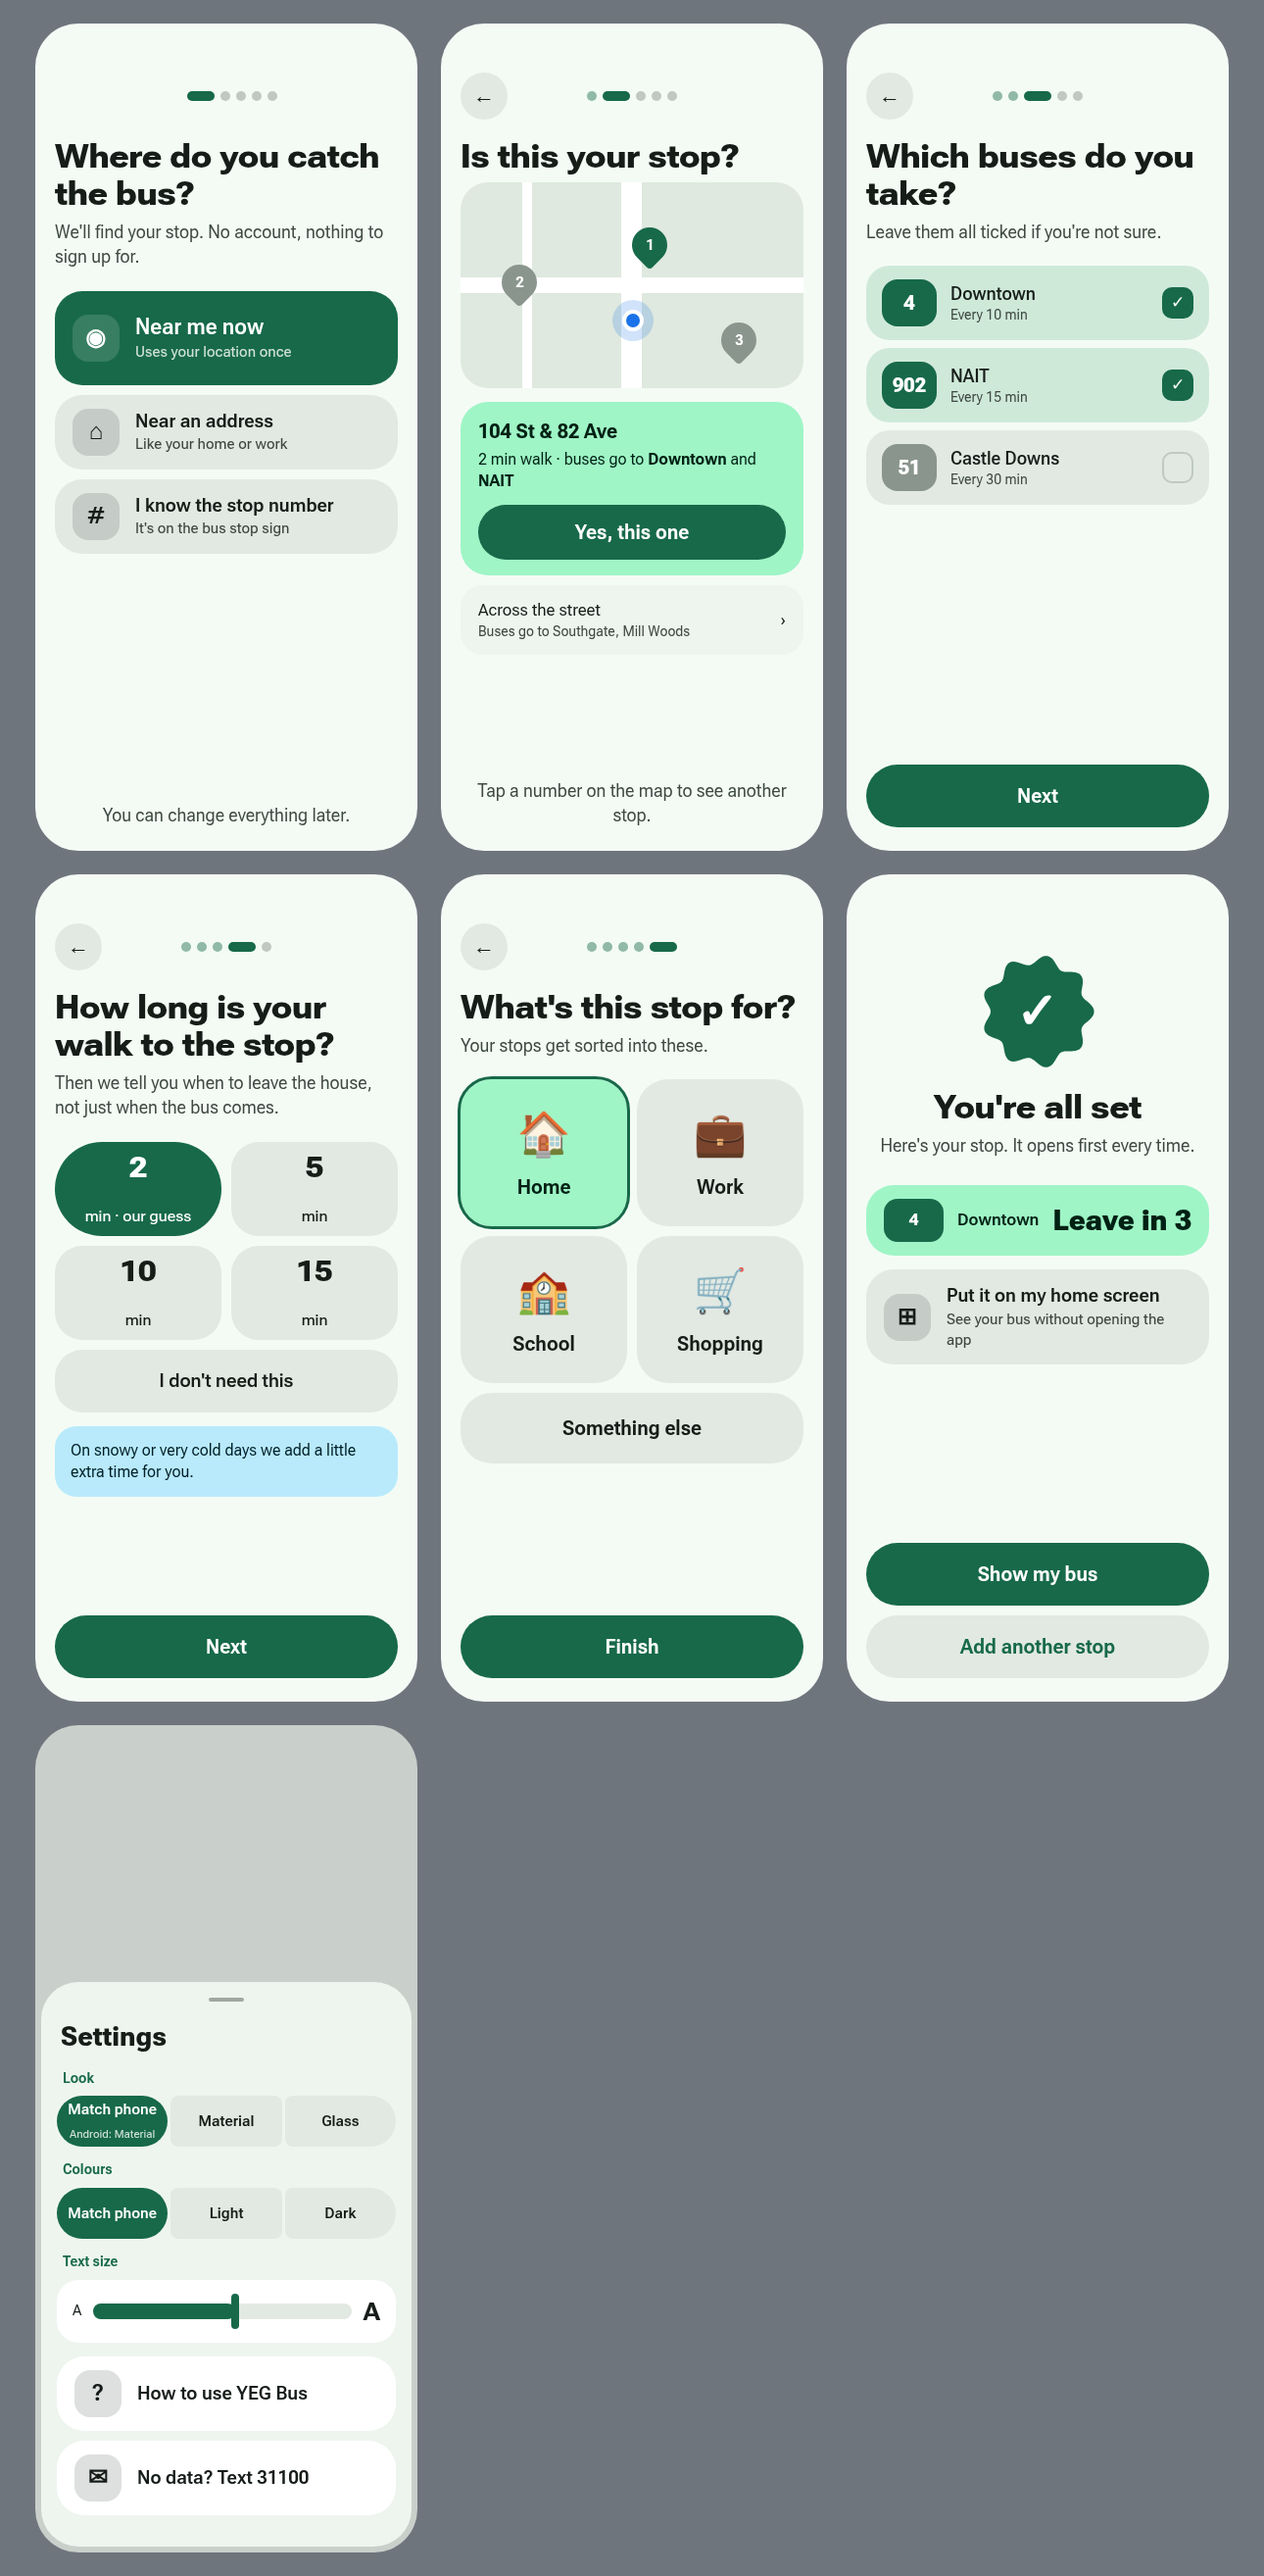
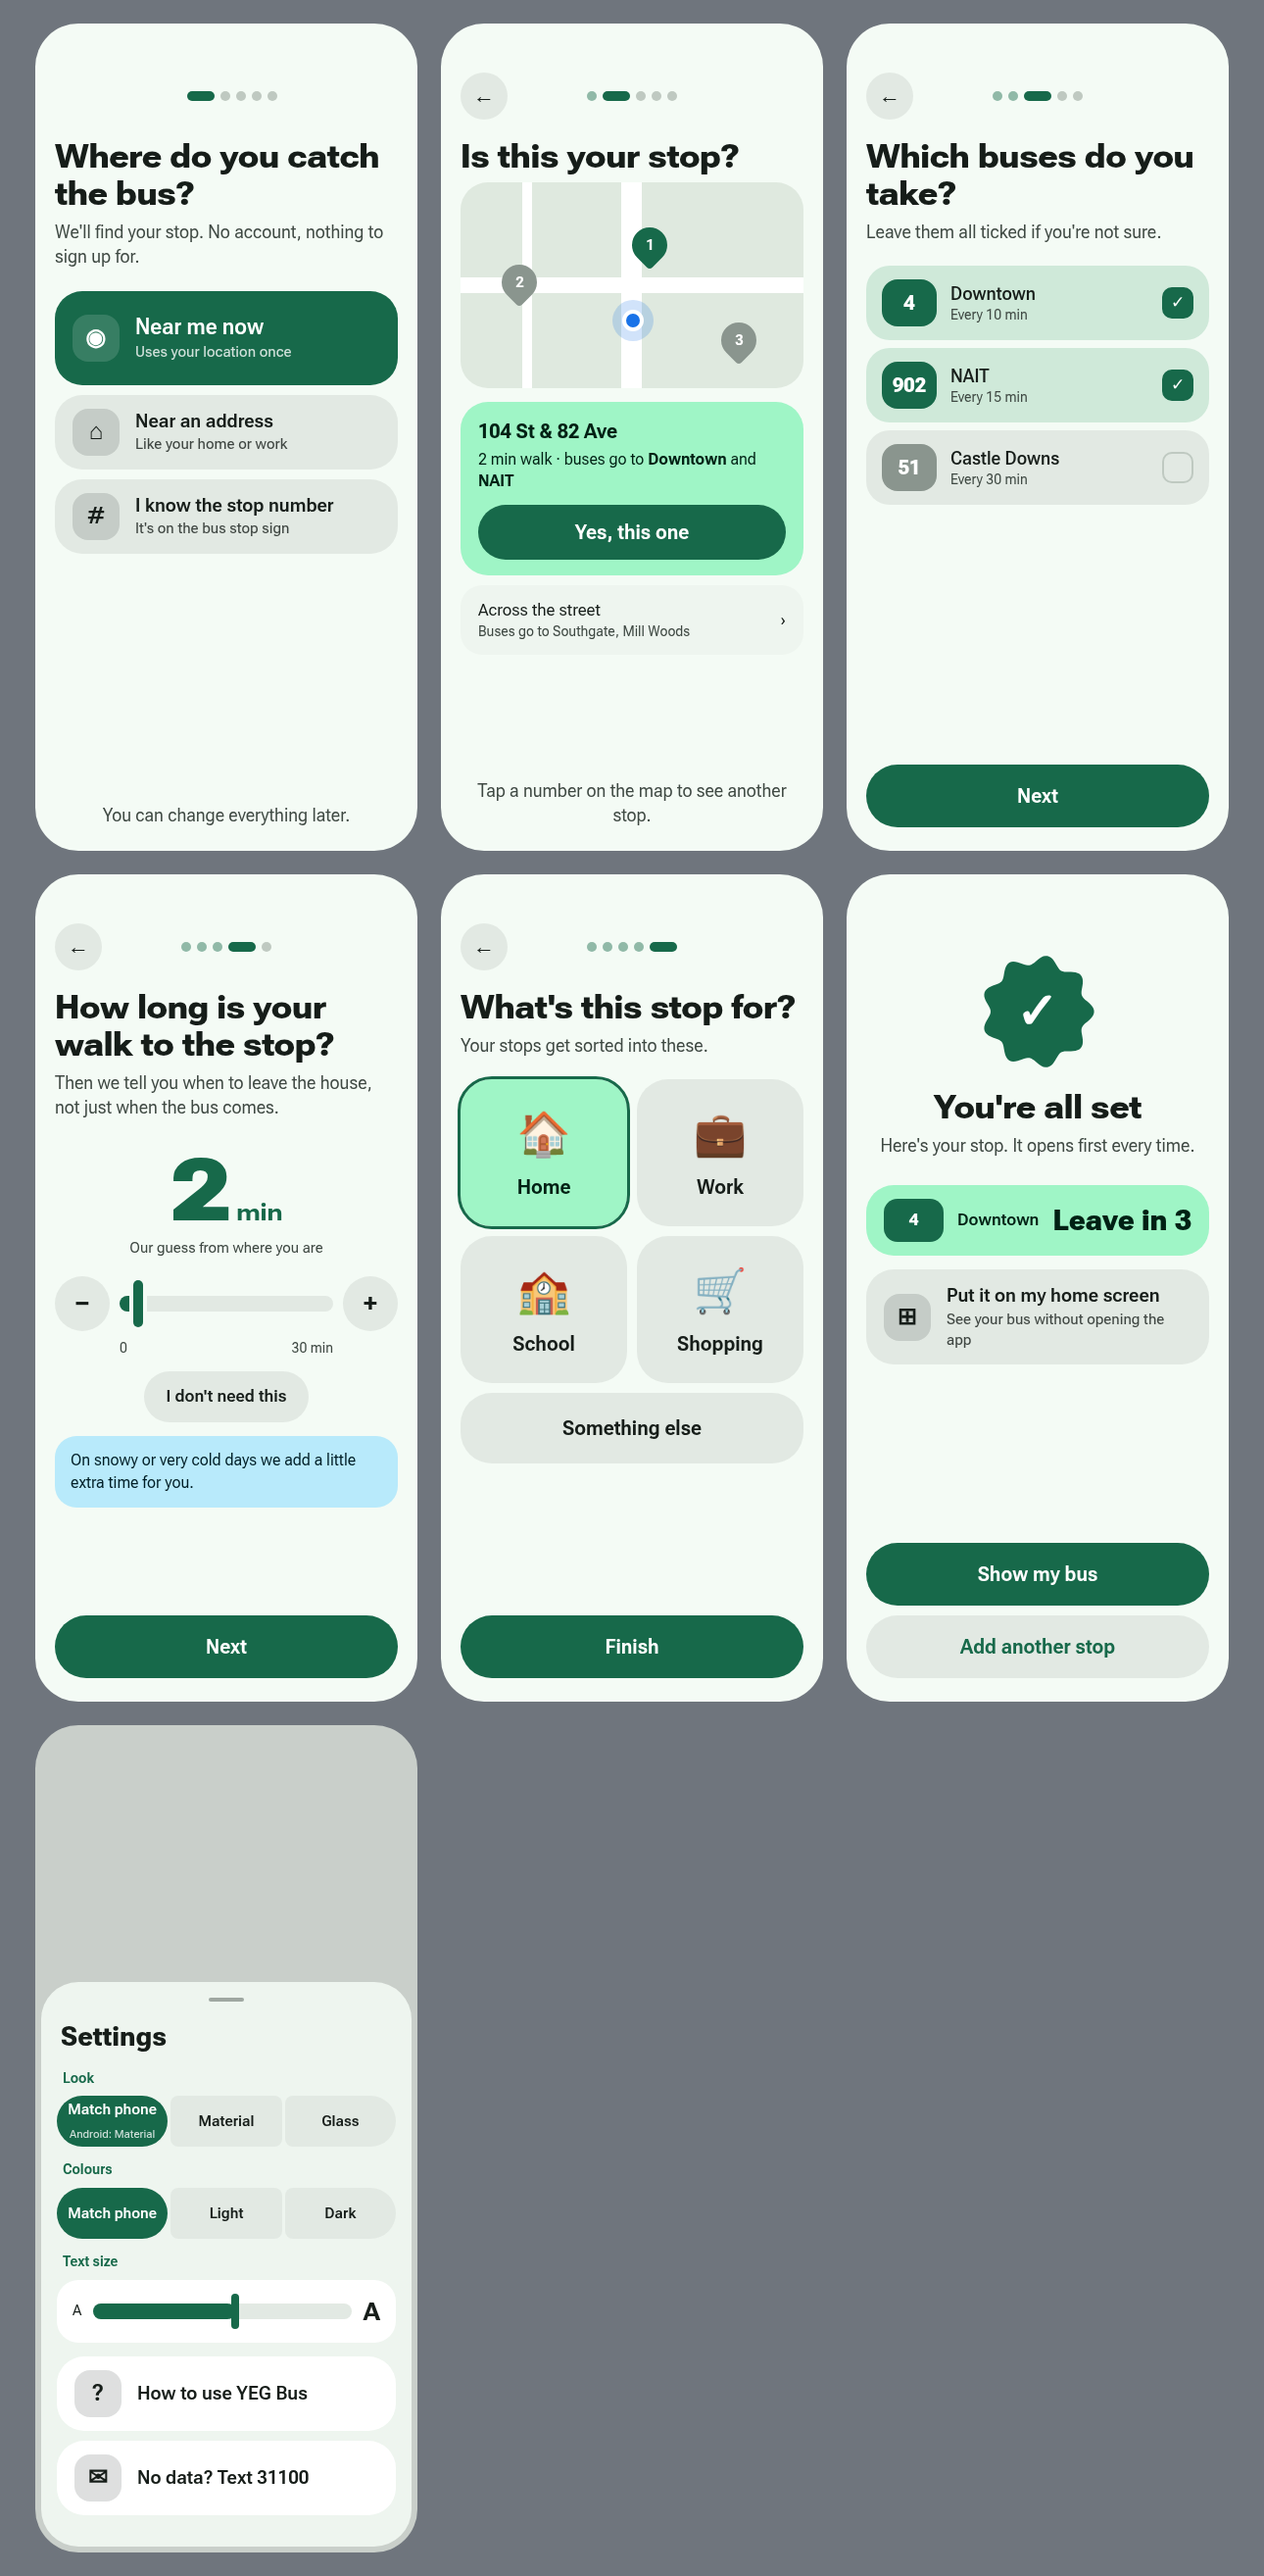
docs(design): walk time slider with minus and plus

Changed region(s): [[0.031, 0.4368, 0.3101, 0.5928]]

diff --git a/docs/design-samples/6-setup-flow.html b/docs/design-samples/6-setup-flow.html
@@ -47,11 +47,17 @@ h1 { font-size: 34px; line-height: 1.12; font-weight: 780; font-variation-settin
 .bus span:not(.n):not(.check) small { display: block; font-size: 14px; font-weight: 400; color: var(--muted); }
 .check { flex: none; width: 32px; height: 32px; border-radius: 10px; border: 2.5px solid var(--outline); display: grid; place-items: center; }
 .on .check { background: var(--primary); border-color: var(--primary); color: #fff; }
-.walk { display: grid; grid-template-columns: 1fr 1fr; gap: 10px; margin-bottom: 14px; }
-.walk div { height: 96px; border-radius: 28px; background: var(--s3); display: grid; place-items: center; text-align: center; font-size: 30px; font-weight: 800; font-variation-settings: "wdth" 118; line-height: 1; }
-.walk div small { display: block; font-size: 15px; font-weight: 500; margin-top: 4px; }
-.walk div.on { background: var(--primary); color: #fff; border-radius: 48px; }
-.walk div.wide { grid-column: span 2; height: 64px; font-size: 18px; font-weight: 600; }
+.walknum { text-align: center; font-size: 88px; line-height: 1; font-weight: 820; font-variation-settings: "wdth" 125, "opsz" 144; color: var(--primary); margin: 6px 0 0; }
+.walknum small { font-size: 26px; font-weight: 650; margin-left: 4px; }
+.guess { text-align: center; color: var(--muted); font-size: 15px; margin: 4px 0 18px; }
+.slide { display: flex; align-items: center; gap: 10px; margin-bottom: 8px; }
+.slide button { width: 56px; height: 56px; border-radius: 50%; background: var(--s3); font-size: 28px; font-weight: 600; flex: none; }
+.slide input { flex: 1; -webkit-appearance: none; appearance: none; height: 16px; border-radius: 8px; margin: 0;
+  background: linear-gradient(90deg, var(--primary) var(--p, 7%), var(--s3) var(--p, 7%)); }
+.slide input::-webkit-slider-thumb { -webkit-appearance: none; width: 10px; height: 48px; border-radius: 5px; background: var(--primary); box-shadow: 0 0 0 4px #f4fbf5; }
+.slide input::-moz-range-thumb { width: 10px; height: 48px; border-radius: 5px; background: var(--primary); border: 0; }
+.ends { display: flex; justify-content: space-between; color: var(--muted); font-size: 14px; margin: 0 66px 14px; }
+.skip { display: block; margin: 0 auto 14px; height: 52px; padding: 0 22px; border-radius: 26px; background: var(--s3); font-weight: 600; }
 .hint { background: var(--tc); color: var(--on-tc); border-radius: 22px; padding: 14px 16px; font-size: 16px; }
 .tiles { display: grid; grid-template-columns: 1fr 1fr; gap: 10px; }
 .tile { height: 150px; border-radius: 32px; background: var(--s3); display: flex; flex-direction: column; align-items: center; justify-content: center; gap: 8px; font-size: 20px; font-weight: 650; }
@@ -122,7 +128,11 @@ h1 { font-size: 34px; line-height: 1.12; font-weight: 780; font-variation-settin
   <div class="top"><span class="back">&larr;</span><div class="dots"><i class="done"></i><i class="done"></i><i class="done"></i><i class="on"></i><i></i></div></div>
   <h1>How long is your walk to the stop?</h1>
   <p class="lead">Then we tell you when to leave the house, not just when the bus comes.</p>
-  <div class="walk"><div class="on">2<small>min &middot; our guess</small></div><div>5<small>min</small></div><div>10<small>min</small></div><div>15<small>min</small></div><div class="wide">I don't need this</div></div>
+  <div class="walknum"><span id="wn">2</span><small>min</small></div>
+  <p class="guess">Our guess from where you are</p>
+  <div class="slide"><button id="wm" aria-label="One minute less">&minus;</button><input id="wr" type="range" min="0" max="30" step="1" value="2" aria-label="Walk in minutes"><button id="wp" aria-label="One minute more">+</button></div>
+  <div class="ends"><span>0</span><span>30 min</span></div>
+  <button class="skip">I don't need this</button>
   <div class="hint">On snowy or very cold days we add a little extra time for you.</div>
   <div class="spacer"></div>
   <div class="cta">Next</div>
@@ -170,5 +180,12 @@ h1 { font-size: 34px; line-height: 1.12; font-weight: 780; font-variation-settin
 const d = Array.from({ length: 181 }, (_, i) => { const a = i / 180 * 2 * Math.PI, r = 44 + 4 * Math.cos(9 * a);
   return (i ? "L" : "M") + (50 + r * Math.cos(a)).toFixed(2) + " " + (50 + r * Math.sin(a)).toFixed(2); }).join("") + "Z";
 document.getElementById("ck").setAttribute("d", d);
+const wr = document.getElementById("wr"), wn = document.getElementById("wn");
+const setW = (v) => { wr.value = Math.min(30, Math.max(0, v)); wn.textContent = wr.value; wr.style.setProperty("--p", wr.value / 30 * 100 + "%");
+  document.querySelector(".guess").textContent = +wr.value === 2 ? "Our guess from where you are" : wr.value === "0" ? "Right outside your door" : "Drag, or tap − and +"; };
+wr.oninput = () => setW(+wr.value);
+document.getElementById("wm").onclick = () => setW(+wr.value - 1);
+document.getElementById("wp").onclick = () => setW(+wr.value + 1);
+setW(2);
 </script>
 </body></html>
